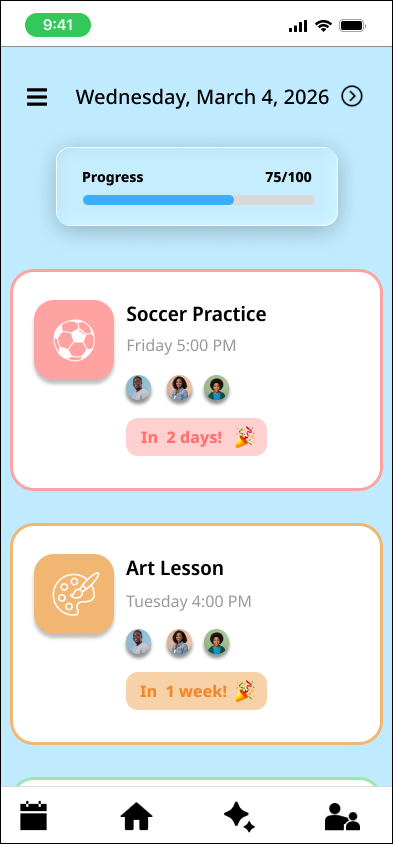
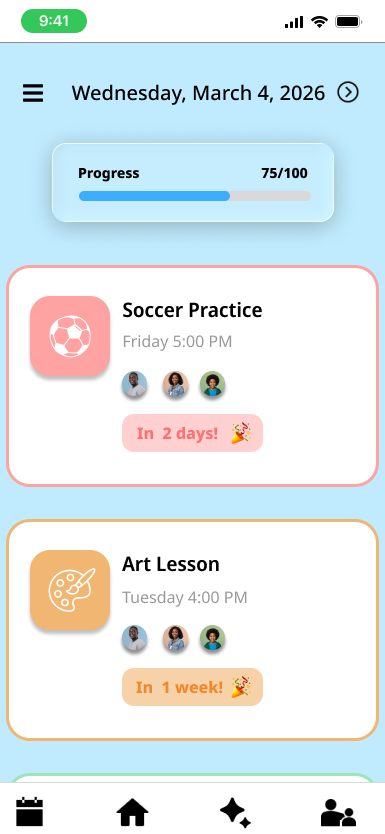
Update FamILY case study with images, persona photos, and layout improvements
- Replace hero usability results box with Portfolio Designs image + Figma link
- Restore bouncing scroll arrow in hero
- Add phone screenshots to research insight cards with floating text boxes
- Replace persona emoji avatars with Jordan, Mia, and Marcus persona photos
- Replace fidelity stage paragraphs with Lo/Mid/Hi-Fi images
- Convert Pivot Moment to scannable bullet list, centered alongside images

diff --git a/family.html b/family.html
@@ -277,14 +277,57 @@
   .stat-label { font-size: 0.8rem; color: var(--ink-muted); line-height: 1.4; }
 
   .insights-grid {
-    display: grid; grid-template-columns: 1fr 1fr; gap: 1.5rem;
+    display: grid; grid-template-columns: 1fr; gap: 1.5rem;
     margin-bottom: 4rem;
   }
   .insight-card {
+    background: var(--cream);
+    border: 1.5px solid var(--border);
+    border-radius: 0.875rem; padding: 0;
+    position: relative;
+    display: grid; grid-template-columns: auto 1fr;
+    overflow: hidden;
+    align-items: stretch;
+  }
+  .insight-phone {
+    background: var(--cream);
+    padding: 2rem 1.8rem;
+    display: flex; align-items: flex-start; justify-content: center;
+  }
+  .insight-phone img {
+    width: 220px;
+    border-radius: 1.5rem;
+    box-shadow: 0 8px 28px rgba(0,0,0,0.15);
+    display: block;
+  }
+  .insight-right {
+    display: flex; flex-direction: column;
+    padding: 2rem 2rem 2rem 0;
+    gap: 1.2rem;
+    justify-content: center;
+  }
+  .insight-text-box {
+    padding: 1.6rem 1.8rem;
     background: var(--warm-white);
     border: 1.5px solid var(--border);
-    border-radius: 0.875rem; padding: 2rem;
-    position: relative;
+    border-radius: 0.875rem;
+    box-shadow: 0 4px 20px rgba(0,0,0,0.05);
+  }
+  .insight-quote-box {
+    padding: 1.4rem 1.8rem;
+    background: var(--rose-pale);
+    border: 1.5px solid #E8B0A0;
+    border-left: 3px solid var(--rose);
+    border-radius: 0.875rem;
+    box-shadow: 0 4px 20px rgba(0,0,0,0.05);
+    font-size: 0.85rem; font-style: italic;
+    color: var(--ink-light); line-height: 1.65;
+  }
+  .insight-quote-box cite {
+    display: block; margin-top: 0.7rem;
+    font-style: normal; font-size: 0.72rem;
+    color: var(--ink-muted); font-weight: 600;
+    letter-spacing: 0.03em;
   }
   .insight-num {
     font-family: 'DM Mono', monospace;
@@ -326,9 +369,15 @@
     border-bottom: 1.5px solid var(--border);
   }
   .persona-avatar {
-    width: 52px; height: 52px; border-radius: 50%;
-    display: flex; align-items: center; justify-content: center;
-    font-size: 1.5rem; margin-bottom: 1rem;
+    width: calc(100% + 3.6rem);
+    margin: -1.8rem -1.8rem 1.2rem;
+    height: 220px;
+    overflow: hidden;
+  }
+  .persona-avatar img {
+    width: 100%; height: 100%;
+    object-fit: cover; object-position: center top;
+    display: block;
   }
   .persona-name {
     font-family: 'Playfair Display', serif;
@@ -400,6 +449,7 @@
   .wf-callout {
     background: var(--charcoal); border-radius: 1rem;
     padding: 2.5rem; color: #fff;
+    align-self: center;
   }
   .wf-callout-label {
     font-size: 0.65rem; font-weight: 700; letter-spacing: 0.12em;
@@ -579,13 +629,29 @@
   .delay-3 { animation-delay: 0.34s; }
   .delay-4 { animation-delay: 0.46s; }
 
+  .scroll-arrow {
+    position: absolute; bottom: 2.5rem; left: 5rem;
+    width: 2.5rem; height: 2.5rem;
+    background: white; border-radius: 0.4rem;
+    display: flex; align-items: center; justify-content: center;
+    text-decoration: none; z-index: 10;
+    animation: bounce 2s infinite;
+  }
+  .scroll-arrow:hover { opacity: 0.85; }
+  @keyframes bounce {
+    0%, 100% { transform: translateY(0); }
+    50% { transform: translateY(8px); }
+  }
+
   @media (max-width: 900px) {
     .hero { grid-template-columns: 1fr; }
     .hero-right { display: none; }
     .hero-left { padding: 10rem 2rem 5rem; }
     .container { padding: 0 1.5rem; }
     .research-stats { grid-template-columns: 1fr 1fr; }
-    .insights-grid { grid-template-columns: 1fr; }
+    .insight-card { grid-template-columns: 1fr; }
+    .insight-content { margin: 0 1rem 1rem; }
+    .insight-phone img { width: 160px; }
     .personas-grid { grid-template-columns: 1fr; }
     .finding-cols { grid-template-columns: 1fr; }
     .outcomes-grid { grid-template-columns: 1fr 1fr; }
@@ -646,40 +712,20 @@
       </div>
     </div>
   </div>
-  <div class="hero-right fade-up delay-4">
-    <div class="hero-visual">
-      <p class="hero-visual-label">Usability Study Results</p>
-      <div class="score-row">
-        <span class="score-label">Task completion rate</span>
-        <div class="score-bar-track"><div class="score-bar-fill" style="width:88%;background:var(--teal-light)"></div></div>
-        <span class="score-num">88%</span>
-      </div>
-      <div class="score-row">
-        <span class="score-label">Ease of navigation</span>
-        <div class="score-bar-track"><div class="score-bar-fill" style="width:80%;background:var(--rose-light)"></div></div>
-        <span class="score-num">4.0/5</span>
-      </div>
-      <div class="score-row">
-        <span class="score-label">Kids mode learnability</span>
-        <div class="score-bar-track"><div class="score-bar-fill" style="width:90%;background:var(--teal-light)"></div></div>
-        <span class="score-num">4.5/5</span>
-      </div>
-      <div class="score-row">
-        <span class="score-label">Overall satisfaction (SUS)</span>
-        <div class="score-bar-track"><div class="score-bar-fill" style="width:78%;background:var(--rose-light)"></div></div>
-        <span class="score-num">78/100</span>
-      </div>
-      <div class="score-row">
-        <span class="score-label">Participants tested</span>
-        <div class="score-bar-track"><div class="score-bar-fill" style="width:100%;background:var(--amber)"></div></div>
-        <span class="score-num">6</span>
-      </div>
-      <a href="https://www.figma.com/proto/moQhoOo0pY5R8x9phP2VdF/UX-Design-Beginner?node-id=284-1341&t=RjL8huOUPKL981jV-1&starting-point-node-id=284%3A1341" target="_blank" class="proto-link">
+  <div class="hero-right fade-up delay-4" style="padding:6rem 3rem 5rem;">
+    <div class="hero-visual" style="max-width:100%;padding:1.5rem;">
+      <img src="images/Portfolio Designs.png" alt="FamILY portfolio designs" style="width:100%;border-radius:0.75rem;display:block;margin-bottom:1.5rem;">
+      <a href="https://www.figma.com/proto/moQhoOo0pY5R8x9phP2VdF/UX-Design-Beginner?node-id=284-1341&t=RjL8huOUPKL981jV-1&starting-point-node-id=284%3A1341" target="_blank" class="proto-link" style="width:100%;justify-content:center;font-size:0.95rem;padding:1rem 1.4rem;">
         <svg viewBox="0 0 24 24" fill="none" stroke="currentColor" stroke-width="2"><path d="M18 13v6a2 2 0 0 1-2 2H5a2 2 0 0 1-2-2V8a2 2 0 0 1 2-2h6"/><polyline points="15 3 21 3 21 9"/><line x1="10" y1="14" x2="21" y2="3"/></svg>
         View Figma Prototype (5 flows, 42 screens)
       </a>
     </div>
   </div>
+  <a href="#problem" class="scroll-arrow" aria-label="Scroll down">
+    <svg width="16" height="16" viewBox="0 0 24 24" fill="none" stroke="black" stroke-width="2.5" stroke-linecap="round" stroke-linejoin="round">
+      <polyline points="6 9 12 15 18 9"/>
+    </svg>
+  </a>
 </section>
 
 <!-- PROBLEM -->
@@ -747,39 +793,67 @@
 
     <div class="insights-grid">
       <div class="insight-card">
-        <p class="insight-num">Insight 01</p>
-        <h3 class="insight-title">Too Busy to Plan</h3>
-        <p class="insight-body">Parents expressed that the overhead of manually inputting events into yet another app was a dealbreaker. The design needed to pull from existing tools automatically — not add to the data-entry burden.</p>
-        <div class="insight-quote">
-          "I already have three apps trying to do this. If I have to type everything in again, I'm just not going to use it."
-          <cite>— Survey respondent, parent of 2, age 34</cite>
+        <div class="insight-phone">
+          <img src="images/Settings Sync.png" alt="Settings sync screen">
+        </div>
+        <div class="insight-right">
+          <div class="insight-text-box">
+            <p class="insight-num">Insight 01</p>
+            <h3 class="insight-title">Too Busy to Plan</h3>
+            <p class="insight-body">Parents expressed that the overhead of manually inputting events into yet another app was a dealbreaker. The design needed to pull from existing tools automatically — not add to the data-entry burden.</p>
+          </div>
+          <div class="insight-quote-box">
+            "I already have three apps trying to do this. If I have to type everything in again, I'm just not going to use it."
+            <cite>— Survey respondent, parent of 2, age 34</cite>
+          </div>
         </div>
       </div>
       <div class="insight-card">
-        <p class="insight-num">Insight 02</p>
-        <h3 class="insight-title">Hard to Learn New Tools</h3>
-        <p class="insight-body">Participants — especially those managing neurodivergent children or living with their own disabilities — flagged that onboarding new technology was a significant barrier. Familiarity mattered more than novelty.</p>
-        <div class="insight-quote">
-          "My brain doesn't have bandwidth for learning new software right now. It needs to just work like the calendar I already use."
-          <cite>— Interview participant, single parent, age 41</cite>
+        <div class="insight-phone">
+          <img src="images/Parent's Mode (2).png" alt="Parent's mode screen">
+        </div>
+        <div class="insight-right">
+          <div class="insight-text-box">
+            <p class="insight-num">Insight 02</p>
+            <h3 class="insight-title">Hard to Learn New Tools</h3>
+            <p class="insight-body">Participants — especially those managing neurodivergent children or living with their own disabilities — flagged that onboarding new technology was a significant barrier. Familiarity mattered more than novelty.</p>
+          </div>
+          <div class="insight-quote-box">
+            "My brain doesn't have bandwidth for learning new software right now. It needs to just work like the calendar I already use."
+            <cite>— Interview participant, single parent, age 41</cite>
+          </div>
         </div>
       </div>
       <div class="insight-card">
-        <p class="insight-num">Insight 03</p>
-        <h3 class="insight-title">No Child-Friendly Options Exist</h3>
-        <p class="insight-body">Parents of younger children (ages 5–10) wanted their children to be able to check their own schedule independently, but no existing calendar tool had a mode safe and readable for that age group.</p>
-        <div class="insight-quote">
-          "My 7-year-old asks me constantly what's happening today. I'd love for her to just look it up herself."
-          <cite>— Interview participant, parent of 3, age 38</cite>
+        <div class="insight-phone">
+          <img src="images/Kids Mode (2).png" alt="Kids mode screen">
+        </div>
+        <div class="insight-right">
+          <div class="insight-text-box">
+            <p class="insight-num">Insight 03</p>
+            <h3 class="insight-title">No Child-Friendly Options Exist</h3>
+            <p class="insight-body">Parents of younger children (ages 5–10) wanted their children to be able to check their own schedule independently, but no existing calendar tool had a mode safe and readable for that age group.</p>
+          </div>
+          <div class="insight-quote-box">
+            "My 7-year-old asks me constantly what's happening today. I'd love for her to just look it up herself."
+            <cite>— Interview participant, parent of 3, age 38</cite>
+          </div>
         </div>
       </div>
       <div class="insight-card">
-        <p class="insight-num">Insight 04</p>
-        <h3 class="insight-title">Navigation Overwhelm</h3>
-        <p class="insight-body">Users with accessibility needs — including low vision and motor differences — stressed the importance of simple, visual information architecture. Too many steps, buttons, or words created friction that made apps unusable.</p>
-        <div class="insight-quote">
-          "Most apps assume I can just scroll through a wall of text. I need things to be visual and obvious."
-          <cite>— Interview participant, user with low vision, age 29</cite>
+        <div class="insight-phone">
+          <img src="images/Accessibility Sync.png" alt="Accessibility sync screen">
+        </div>
+        <div class="insight-right">
+          <div class="insight-text-box">
+            <p class="insight-num">Insight 04</p>
+            <h3 class="insight-title">Navigation Overwhelm</h3>
+            <p class="insight-body">Users with accessibility needs — including low vision and motor differences — stressed the importance of simple, visual information architecture. Too many steps, buttons, or words created friction that made apps unusable.</p>
+          </div>
+          <div class="insight-quote-box">
+            "Most apps assume I can just scroll through a wall of text. I need things to be visual and obvious."
+            <cite>— Interview participant, user with low vision, age 29</cite>
+          </div>
         </div>
       </div>
     </div>
@@ -805,7 +879,9 @@
     <div class="personas-grid">
       <div class="persona-card">
         <div class="persona-header">
-          <div class="persona-avatar" style="background:var(--rose-pale)">👩</div>
+          <div class="persona-avatar">
+            <img src="images/Jordan Persona.png" alt="Jordan, 36, a dual-income working parent and primary user of FamILY">
+          </div>
           <div class="persona-name">Jordan, 36</div>
           <div class="persona-role">Working parent · Primary user</div>
           <p class="persona-quote">"I just need everything in one place so I'm not dropping the ball."</p>
@@ -827,7 +903,9 @@
       </div>
       <div class="persona-card">
         <div class="persona-header">
-          <div class="persona-avatar" style="background:var(--teal-pale)">🧒</div>
+          <div class="persona-avatar">
+            <img src="images/Mia Persona.png" alt="Mia, 8, a child user and secondary user of FamILY">
+          </div>
           <div class="persona-name">Mia, 8</div>
           <div class="persona-role">Child user · Secondary user</div>
           <p class="persona-quote">"I want to know if we're doing something fun today."</p>
@@ -849,7 +927,9 @@
       </div>
       <div class="persona-card">
         <div class="persona-header">
-          <div class="persona-avatar" style="background:var(--amber-pale)">🧑🦽</div>
+          <div class="persona-avatar">
+            <img src="images/Marcus Persona.png" alt="Marcus, 44, an accessibility user and constraint-setter for FamILY's design">
+          </div>
           <div class="persona-name">Marcus, 44</div>
           <div class="persona-role">Accessibility user · Constraint-setter</div>
           <p class="persona-quote">"Most apps just aren't built with people like me in mind."</p>
@@ -888,30 +968,46 @@
             <div style="width:36px;height:36px;border-radius:50%;background:var(--rose-pale);border:2px solid var(--rose);display:flex;align-items:center;justify-content:center;font-size:0.72rem;font-weight:700;color:var(--rose);flex-shrink:0">01</div>
             <div>
               <strong style="font-size:0.9rem;color:var(--ink)">Low-Fidelity Sketches</strong>
-              <p style="font-size:0.82rem;color:var(--ink-muted);margin-top:0.2rem;line-height:1.5">Quick hand-drawn concept sketches to explore layout ideas and navigation patterns. Used to gather early directional feedback before committing to any visual style.</p>
+              <img src="images/Low-Fidelity Sketches.png" alt="Low-fidelity hand-drawn sketches exploring layout and navigation patterns" style="display:block;width:100%;margin-top:0.8rem;border-radius:0.5rem;box-shadow:0 4px 16px rgba(0,0,0,0.1)">
             </div>
           </div>
           <div style="display:flex;gap:1.2rem;align-items:flex-start">
             <div style="width:36px;height:36px;border-radius:50%;background:var(--amber-pale);border:2px solid var(--amber);display:flex;align-items:center;justify-content:center;font-size:0.72rem;font-weight:700;color:var(--amber);flex-shrink:0">02</div>
             <div>
               <strong style="font-size:0.9rem;color:var(--ink)">Mid-Fidelity Wireframes</strong>
-              <p style="font-size:0.82rem;color:var(--ink-muted);margin-top:0.2rem;line-height:1.5">Grayscale digital wireframes built in Figma. This is where the core IA was validated — and where significant structural changes happened after user feedback sessions.</p>
+              <img src="images/Mid-Fidelity Wireframes 2.png" alt="Mid-fidelity grayscale wireframes built in Figma showing core information architecture" style="display:block;width:100%;margin-top:0.8rem;border-radius:0.5rem;box-shadow:0 4px 16px rgba(0,0,0,0.1)">
             </div>
           </div>
           <div style="display:flex;gap:1.2rem;align-items:flex-start">
             <div style="width:36px;height:36px;border-radius:50%;background:var(--teal-pale);border:2px solid var(--teal);display:flex;align-items:center;justify-content:center;font-size:0.72rem;font-weight:700;color:var(--teal);flex-shrink:0">03</div>
             <div>
               <strong style="font-size:0.9rem;color:var(--ink)">High-Fidelity Mockups</strong>
-              <p style="font-size:0.82rem;color:var(--ink-muted);margin-top:0.2rem;line-height:1.5">Full-color, interactive prototype. Color palette, typography, and component styles were tested and revised multiple times for both aesthetic appeal and WCAG AA contrast compliance.</p>
+              <img src="images/High-Fidelity Mockups.png" alt="High-fidelity full-color mockups showing final UI with WCAG AA compliant contrast and typography" style="display:block;width:100%;margin-top:0.8rem;border-radius:0.5rem;box-shadow:0 4px 16px rgba(0,0,0,0.1)">
             </div>
           </div>
         </div>
       </div>
       <div class="wf-callout">
         <p class="wf-callout-label">The Pivot Moment</p>
-        <p>Before usability feedback, my instinct was to design a standard calendar grid with a few accessible elements layered on top. <strong>That assumption didn't hold.</strong></p>
-        <p style="margin-top:1rem">Users with accessibility needs didn't just want a "more accessible" version of the same thing — they needed a fundamentally different navigation model. And children needed their own mode entirely, not just a simplified view of the adult interface.</p>
-        <p style="margin-top:1rem">This insight drove the creation of <strong>three distinct modes</strong> (Parent, Kids, Accessibility) sharing a common data layer — one of the biggest structural changes from lo-fi to mid-fi.</p>
+        <p style="margin-bottom:1.2rem">My initial instinct didn't survive contact with real user needs:</p>
+        <ul style="list-style:none;display:flex;flex-direction:column;gap:0.75rem;padding:0">
+          <li style="display:flex;align-items:flex-start;gap:0.75rem;font-size:0.92rem;color:rgba(255,255,255,0.65);line-height:1.55">
+            <span style="width:6px;height:6px;border-radius:50%;background:var(--rose-light);flex-shrink:0;margin-top:0.5rem"></span>
+            <span><strong style="color:rgba(255,255,255,0.9)">Started with:</strong> a standard calendar grid with accessible elements layered on top</span>
+          </li>
+          <li style="display:flex;align-items:flex-start;gap:0.75rem;font-size:0.92rem;color:rgba(255,255,255,0.65);line-height:1.55">
+            <span style="width:6px;height:6px;border-radius:50%;background:var(--rose-light);flex-shrink:0;margin-top:0.5rem"></span>
+            <span>Accessibility users needed a <strong style="color:rgba(255,255,255,0.9)">fundamentally different navigation model</strong> — not just "more accessible"</span>
+          </li>
+          <li style="display:flex;align-items:flex-start;gap:0.75rem;font-size:0.92rem;color:rgba(255,255,255,0.65);line-height:1.55">
+            <span style="width:6px;height:6px;border-radius:50%;background:var(--rose-light);flex-shrink:0;margin-top:0.5rem"></span>
+            <span>Children needed their <strong style="color:rgba(255,255,255,0.9)">own mode entirely</strong> — not a simplified view of the adult interface</span>
+          </li>
+          <li style="display:flex;align-items:flex-start;gap:0.75rem;font-size:0.92rem;color:rgba(255,255,255,0.65);line-height:1.55">
+            <span style="width:6px;height:6px;border-radius:50%;background:var(--rose-light);flex-shrink:0;margin-top:0.5rem"></span>
+            <span><strong style="color:rgba(255,255,255,0.9)">Result:</strong> three distinct modes (Parent, Kids, Accessibility) sharing one data layer — the biggest structural change from lo-fi to mid-fi</span>
+          </li>
+        </ul>
       </div>
     </div>
 
